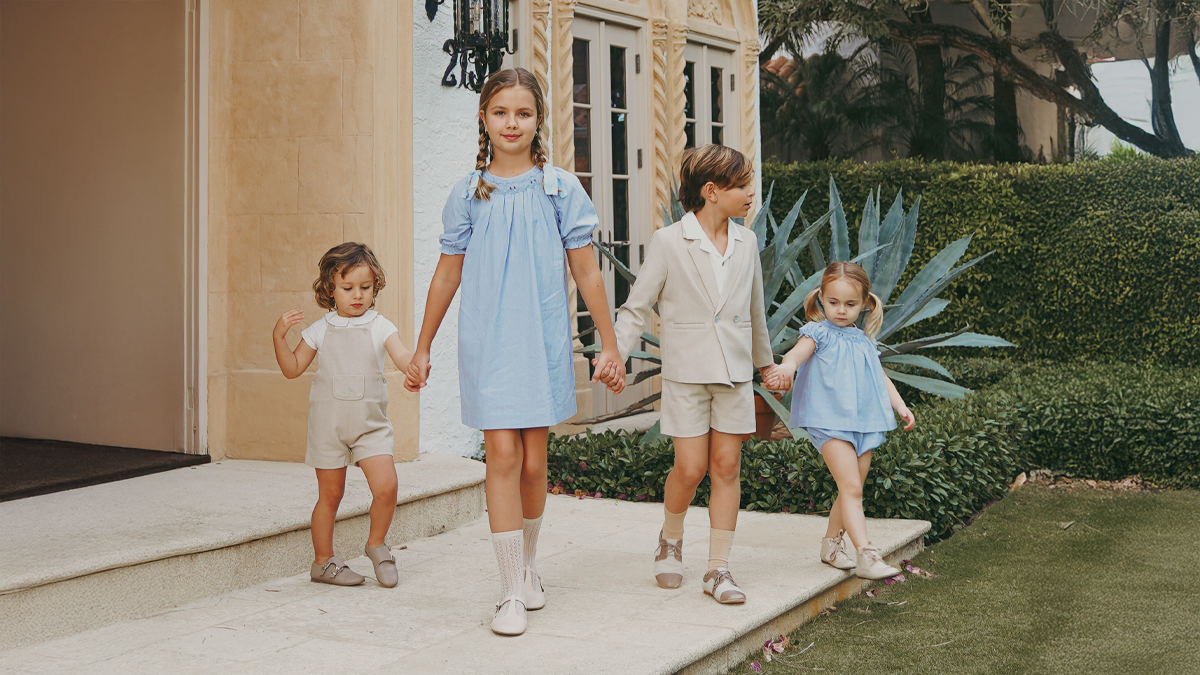
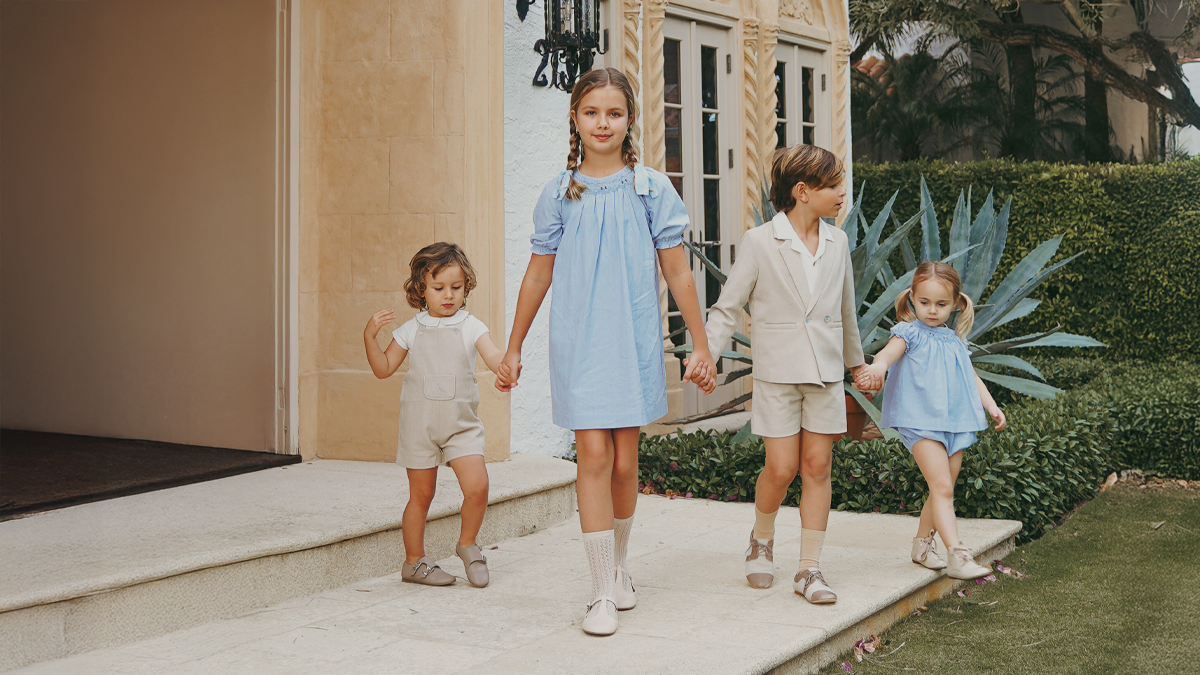
update

diff --git a/src/Header.css b/src/Header.css
@@ -274,23 +274,21 @@ body.locked {
   margin-top: 20px;
 }
 
-@media (min-width: 769px) {
-  .mobile-menu.closing .menu-image-column {
-    transform: translateY(-100%);
-    transition: transform 0.5s ease-out;
-    transition-delay: 0.7s;
-  }
-
-  .mobile-menu.closing .menu-content {
-    transform: translateY(-100%);
-    transition: transform 0.75s ease;
-    opacity: 1;
-  }
+.mobile-menu.closing .menu-image-column {
+  transform: translateY(-100%);
+  transition: transform 0.5s ease-out;
+  transition-delay: 0.7s;
 }
 
 .mobile-menu.closing {
   opacity: 1;
   pointer-events: auto;
+}
+
+.mobile-menu.closing .menu-content {
+  transform: translateY(-100%);
+  transition: transform 0.75s ease;
+  opacity: 1;
 }
 
 .mobile-menu {
@@ -937,15 +935,6 @@ body {
   height: 100%;
   min-height: 0;
   background-color: #F1DBD1;
-  transform-origin: left bottom;
-  transform: scale(0);
-  opacity: 0;
-  transition: transform 0.7s cubic-bezier(.22,1,.36,1), opacity 0.2s ease;
-}
-
-.mobile-menu.active .menu-background {
-  transform: scale(1);
-  opacity: 1;
 }
 
 .menu-content {
@@ -957,20 +946,17 @@ body {
   padding-bottom: calc(var(--nav-icon-size) + var(--nav-top-padding) + var(--nav-bottom-safe-padding));
   box-sizing: border-box;
   background: #F1DBD1;
-  transform-origin: left bottom;
-  transform: scale(0);
-  opacity: 0;
-  transition: transform 0.7s cubic-bezier(.22,1,.36,1), opacity 0.2s ease;
-}
-
-.mobile-menu.active .menu-content {
-  transform: scale(1);
-  opacity: 1;
+  transform: translateY(-100%);
+  transition: transform 0.75s ease;
 }
 
 .mobile-menu.active .mobile-menu-logo {
   opacity: 1;
   transform: translate(-50%, 0);
+}
+
+.mobile-menu.active .menu-content {
+  transform: translateY(0);
 }
 
 .menu-columns {
@@ -996,20 +982,5 @@ body {
     font-size: 13vw;
     line-height: 16vw;
   }
-.mobile-menu.closing .menu-content {
-  transform: scale(0);
-  opacity: 0;
-  transition: transform 0.55s cubic-bezier(.22,1,.36,1), opacity 0.18s ease;
-}
 
-.mobile-menu.closing .menu-background {
-  transform: scale(0);
-  opacity: 0;
-  transition: transform 0.55s cubic-bezier(.22,1,.36,1), opacity 0.18s ease;
-}
-.mobile-menu.closing .mobile-menu-logo {
-  opacity: 0;
-  transform: translate(-50%, -20px);
-  transition: opacity 0.18s ease, transform 0.18s ease;
-}
 }
